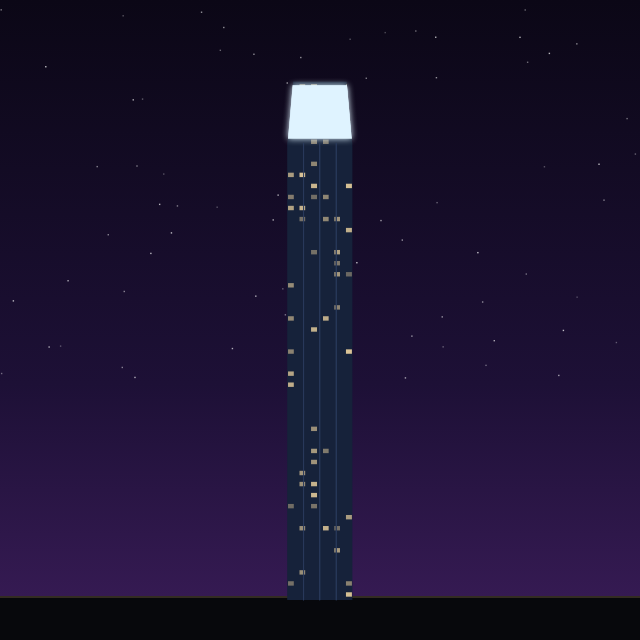
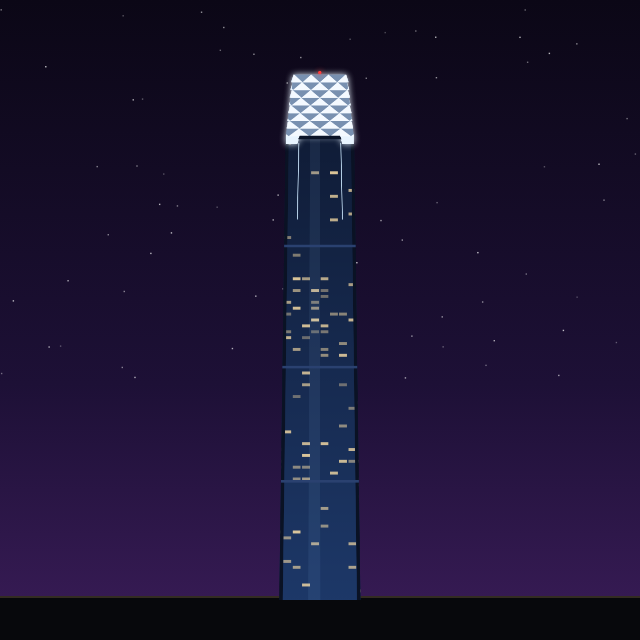
Redraw Exchange 106, add an MIT licence and a contributing section
- Exchange 106: faceted, tapering crown with staggered rows of lit
  pyramids and corners hanging over the shaft; blue-glass shaft with
  sky-lobby bands, corner fins and lit floor rows.
- README: Sultan Abdul Samad tile framed like the photo (lawn, royal
  palms, KL Tower behind); new "Want to add a landmark?" and "License"
  sections.
- LICENSE: MIT for the code and game art; real-world photos excluded.
- Remove the legacy greybox-A-lanes.md prototype contract.

Changed region(s): [[0.4375, 0.375, 0.5625, 0.9375], [0.4375, 0.0938, 0.5625, 0.3438]]

diff --git a/index.html b/index.html
@@ -310,11 +310,19 @@ const KL_LANDMARKS = {
  exchange106: {
   "w": 80,
   "h": 455,
-  "note": "Rectangular glass tower with a tall illuminated crown that tapers slightly. Filler for the far skyline.",
+  "note": "Exchange 106 (TRX), from the street photo: a tall, slightly tapering dark-blue glass shaft with chamfered corners, faint sky-lobby bands and thin corner fins on the upper shaft. Floodlit faceted crown: it tapers from about the shaft's width to ~77% at the flat top, with saw-toothed sides (each row juts out at its lower edge); 8 rows of wide diamonds, alternate rows offset by half a diamond, each with a bright upper half and a steel-blue lower half. The crown's bottom corners hang down over the shaft with a dark notch between them. Red aircraft light on top.",
   "layers": [
-   {"role":"body","mode":"fill","d":"M68,455 L68,63 L63,10 L17,10 L12,63 L12,455 Z"},
-   {"role":"sig","mode":"fill","d":"M67.5,59 L63.5,13 L16.5,13 L12.5,59 Z"},
-   {"role":"line","mode":"stroke","d":"M26,455 L26,63 M40,455 L40,63 M54,455 L54,63","lw":1}
+   {"role":"body","mode":"fill","d":"M5,455 L10.5,58 L69.5,58 L75,455 Z"},
+   {"role":"fixed","mode":"fill","d":"M30,455 L31.5,58 L40,58 L40.5,455 Z","color":"rgba(150,200,255,0.08)"},
+   {"role":"fixed","mode":"fill","d":"M5,455 L10.5,58 L13.2,58 L8,455 Z M75,455 L69.5,58 L66.8,58 L72,455 Z","color":"#0a1224"},
+   {"role":"fixed","mode":"fill","d":"M9.23,150 L70.77,150 L70.77,152.2 L9.23,152.2 Z M7.78,254 L72.22,254 L72.22,256.2 L7.78,256.2 Z M6.43,352 L73.57,352 L73.57,354.2 L6.43,354.2 Z","color":"#2a4170"},
+   {"role":"fixed","mode":"stroke","d":"M22,63 L20.6,128 M58,63 L59.4,128","color":"#b9d3ea","lw":0.8},
+   {"role":"sig","mode":"fill","d":"M17.3,4 L62.7,4 L64.66,9.72 L64.66,10.62 L63.36,10.62 L65.33,16.35 L65.33,17.25 L64.03,17.25 L65.99,22.98 L65.99,23.88 L64.69,23.88 L66.65,29.6 L66.65,30.5 L65.35,30.5 L67.31,36.23 L67.31,37.12 L66.01,37.12 L67.97,42.85 L67.97,43.75 L66.67,43.75 L68.64,49.48 L68.64,50.38 L67.34,50.38 L69.3,56.1 L69.3,57 L69.3,63.5 L59.3,63.5 L57.3,57 L22.7,57 L20.7,63.5 L10.7,63.5 L10.7,57 L10.7,56.1 L12.66,50.38 L11.36,50.38 L11.36,49.48 L13.33,43.75 L12.03,43.75 L12.03,42.85 L13.99,37.12 L12.69,37.12 L12.69,36.23 L14.65,30.5 L13.35,30.5 L13.35,29.6 L15.31,23.88 L14.01,23.88 L14.01,22.98 L15.98,17.25 L14.68,17.25 L14.68,16.35 L16.64,10.62 L15.34,10.62 L15.34,9.72 Z"},
+   {"role":"fixed","mode":"fill","d":"M17.3,4 L18.03,4 L17.21,4.75 Z M18.03,4 L32.68,4 L25.35,10.62 Z M32.68,4 L47.32,4 L40,10.62 Z M47.32,4 L61.97,4 L54.65,10.62 Z M61.97,4 L62.7,4 L62.79,4.75 Z M16.48,10.62 L24.93,10.62 L17.39,17.25 L15.82,15.87 Z M24.93,10.62 L40,10.62 L32.46,17.25 Z M40,10.62 L55.07,10.62 L47.54,17.25 Z M55.07,10.62 L63.52,10.62 L64.18,15.87 L62.61,17.25 Z M15.65,17.25 L16.75,17.25 L15.52,18.3 Z M16.75,17.25 L32.25,17.25 L24.5,23.88 Z M32.25,17.25 L47.75,17.25 L40,23.88 Z M47.75,17.25 L63.25,17.25 L55.5,23.88 Z M63.25,17.25 L64.35,17.25 L64.48,18.3 Z M14.83,23.88 L24.07,23.88 L16.11,30.5 L14.2,28.91 Z M24.07,23.88 L40,23.88 L32.04,30.5 Z M40,23.88 L55.93,23.88 L47.96,30.5 Z M55.93,23.88 L65.17,23.88 L65.8,28.91 L63.89,30.5 Z M14,30.5 L15.47,30.5 L13.84,31.82 Z M15.47,30.5 L31.82,30.5 L23.65,37.12 Z M31.82,30.5 L48.18,30.5 L40,37.12 Z M48.18,30.5 L64.53,30.5 L56.35,37.12 Z M64.53,30.5 L66,30.5 L66.16,31.82 Z M13.18,37.12 L23.22,37.12 L14.83,43.75 L12.57,41.97 Z M23.22,37.12 L40,37.12 L31.61,43.75 Z M40,37.12 L56.78,37.12 L48.39,43.75 Z M56.78,37.12 L66.83,37.12 L67.43,41.97 L65.17,43.75 Z M12.35,43.75 L14.19,43.75 L12.16,45.31 Z M14.19,43.75 L31.4,43.75 L22.79,50.38 Z M31.4,43.75 L48.6,43.75 L40,50.38 Z M48.6,43.75 L65.81,43.75 L57.21,50.38 Z M65.81,43.75 L67.65,43.75 L67.84,45.31 Z M11.52,50.38 L22.36,50.38 L13.54,57 L10.94,55.05 Z M22.36,50.38 L40,50.38 L31.18,57 Z M40,50.38 L57.64,50.38 L48.82,57 Z M57.64,50.38 L68.47,50.38 L69.06,55.05 L66.46,57 Z M10.7,57 L12.9,57 L12.9,57 L10.7,57 Z M12.9,57 L30.97,57 L30.97,57 L12.9,57 Z M30.97,57 L49.03,57 L49.03,57 L30.97,57 Z M49.03,57 L67.1,57 L67.1,57 L49.03,57 Z M67.1,57 L69.3,57 L69.3,57 L67.1,57 Z","color":"#7890b0"},
+   {"role":"fixed","mode":"fill","d":"M18.03,4 L18.03,4 L17.3,4 L17.3,4 Z M18.03,4 L18.03,4 L32.68,4 L32.68,4 Z M32.68,4 L32.68,4 L47.32,4 L47.32,4 Z M47.32,4 L47.32,4 L61.97,4 L61.97,4 Z M61.97,4 L61.97,4 L62.7,4 L62.7,4 Z M17.29,4.09 L17.39,4 L24.93,10.62 L16.48,10.62 Z M24.93,10.62 L32.46,4 L40,10.62 Z M40,10.62 L47.54,4 L55.07,10.62 Z M55.07,10.62 L62.61,4 L62.71,4.09 L63.53,10.62 Z M15.76,16.4 L16.75,17.25 L15.65,17.25 Z M16.75,17.25 L24.5,10.62 L32.25,17.25 Z M32.25,17.25 L40,10.62 L47.75,17.25 Z M47.75,17.25 L55.5,10.62 L63.25,17.25 Z M63.25,17.25 L64.24,16.4 L64.35,17.25 Z M15.6,17.68 L16.11,17.25 L24.07,23.88 L14.82,23.88 Z M24.07,23.88 L32.04,17.25 L40,23.88 Z M40,23.88 L47.96,17.25 L55.93,23.88 Z M55.93,23.88 L63.89,17.25 L64.4,17.68 L65.17,23.88 Z M14.13,29.42 L15.47,30.5 L14,30.5 Z M15.47,30.5 L23.65,23.88 L31.82,30.5 Z M31.82,30.5 L40,23.88 L48.18,30.5 Z M48.18,30.5 L56.35,23.88 L64.53,30.5 Z M64.53,30.5 L65.87,29.42 L66,30.5 Z M13.91,31.22 L14.83,30.5 L23.22,37.12 L13.18,37.12 Z M23.22,37.12 L31.61,30.5 L40,37.12 Z M40,37.12 L48.39,30.5 L56.78,37.12 Z M56.78,37.12 L65.17,30.5 L66.09,31.22 L66.83,37.12 Z M12.51,42.46 L14.19,43.75 L12.35,43.75 Z M14.19,43.75 L22.79,37.12 L31.4,43.75 Z M31.4,43.75 L40,37.12 L48.6,43.75 Z M48.6,43.75 L57.21,37.12 L65.81,43.75 Z M65.81,43.75 L67.49,42.46 L67.65,43.75 Z M12.23,44.74 L13.54,43.75 L22.36,50.38 L11.53,50.38 Z M22.36,50.38 L31.18,43.75 L40,50.38 Z M40,50.38 L48.82,43.75 L57.64,50.38 Z M57.64,50.38 L66.46,43.75 L67.77,44.74 L68.47,50.38 Z M10.88,55.52 L12.9,57 L10.7,57 Z M12.9,57 L21.94,50.38 L30.97,57 Z M30.97,57 L40,50.38 L49.03,57 Z M49.03,57 L58.06,50.38 L67.1,57 Z M67.1,57 L69.12,55.52 L69.3,57 Z","color":"#f4f9ff"},
+   {"role":"fixed","mode":"stroke","d":"","color":"#9fb3cc","lw":0.35},
+   {"role":"fixed","mode":"fill","d":"M22.7,56.4 L57.3,56.4 L58.7,59.5 L21.3,59.5 Z","color":"#0b1428"},
+   {"role":"red","mode":"fill","d":"M38.6,2.2 A1.4,1.4 0 1 0 41.4,2.2 A1.4,1.4 0 1 0 38.6,2.2 Z"}
   ]
  },
  sultanAbdulSamad: {
@@ -769,7 +777,7 @@ const KL_PALETTES = {
   klTower:          { body: '#8190c8', bodyGrad: ['#8190c8', '#f4f5ff'], bodyGradAt: [0.40, 0.53], line: 'rgba(40,44,100,0.22)', lit: '#ffe2a8', lit2: '#f2f0ff', metal: '#eeeefa', red: '#ff3b3b' },
   hill:             { body: '#0c1a16' },
   merdeka118:       { body: '#111a30', sig: '#6fb4ff', sig2: '#c77dff', lit: '#ffffff', lit2: '#dfe8ff', line: '#7f8aa3', red: '#ff3b3b' },
-  exchange106:      { body: '#16223a', sig: '#dff3ff', line: '#2a3a5c' },
+  exchange106:      { body: '#16223a', bodyGrad: ['#1d3868', '#0f1a33'], bodyGradAt: [0, 0.95], sig: '#e8f4ff', line: '#2a3a5c', red: '#ff3b3b' },
   /* bodyGrad = [bottom, top]: floodlit from the ground, so the facade is brightest at street level */
   sultanAbdulSamad: { body: '#6a4a32', bodyGrad: ['#c99763', '#553a27'], metal: '#b9552f', lit: '#ffd98a', lit2: '#fff4d6', line: '#3a2a1c', trim: '#ecd3a4' },
   royalPalm:        {},
@@ -794,7 +802,7 @@ const KL_WINDOWS = {
   /* bands: [fromTop, toTop, prob] as fractions of the viewBox height - the tower lights up in horizontal rows, not random dots */
   merdeka118:  { cols: 16, rows: 140, prob: 0.04, dash: true, color: '#ffe2a8', seed: 118,
                  bands: [[0.30, 0.36, 0.45], [0.455, 0.525, 0.8], [0.60, 0.625, 0.55], [0.70, 0.715, 0.5]] },
-  exchange106: { cols: 8,  rows: 48, prob: 0.22, color: '#ffe2a8', seed: 106 },
+  exchange106: { cols: 10, rows: 90, prob: 0.08, dash: true, color: '#ffe2a8', seed: 106, bands: [[0.40, 0.50, 0.22], [0.70, 0.78, 0.18]] },
   sentralTowers: { cols: 26, rows: 34, prob: 0.30, color: '#ffe2a8', seed: 5050 },
   ilhamTower:  { cols: 36, rows: 118, prob: 0.035, dash: true, color: '#ffe2a8', seed: 274, bands: [[0.30, 0.44, 0.22], [0.50, 0.60, 0.16], [0.70, 0.78, 0.10]] }
   /* greatEasternMall has no entry here: its lit office windows are explicit lit layers in KL_LANDMARKS, not a runtime dot pattern. */

diff --git a/docs/readme/export_assets.py b/docs/readme/export_assets.py
@@ -120,6 +120,18 @@ def export_tiles(browser, url):
             drawBaked(g, r, T / 2, beamY);
             const train = bakeLandmark('monorailTrain', 58, { bake: 2 }, R.mk);
             drawBaked(g, train, T / 2 + 40, beamY + 10);
+          } else if (id === 'sultanAbdulSamad') {
+            // framed like the Dataran Merdeka photo: KL Tower small behind, lawn and royal palms in front
+            const lawnTop = T - 150;
+            const tower = bakeLandmark('klTower', 250, { bake: 2 }, R.mk);
+            drawBaked(g, tower, T / 2 - 70, lawnTop - 20, 0.8);
+            drawBaked(g, r, T / 2, lawnTop + 4);
+            const lawn = g.createLinearGradient(0, lawnTop, 0, T);
+            lawn.addColorStop(0, '#1d4428'); lawn.addColorStop(1, '#0d2415');
+            g.fillStyle = lawn; g.fillRect(0, lawnTop, T, T - lawnTop);
+            g.fillStyle = 'rgba(255,210,140,0.16)'; g.fillRect(0, lawnTop, T, 2);
+            const palm = bakeLandmark('royalPalm', 150, { bake: 2 }, R.mk);
+            [38, 128, 214, 426, 512, 602].forEach(x => drawBaked(g, palm, x, lawnTop + 26));
           } else {
             drawBaked(g, r, T / 2, floorY + 4);
           }

diff --git a/CLAUDE.md b/CLAUDE.md
@@ -6,7 +6,7 @@ This file provides guidance to Claude Code (claude.ai/code) when working with co
 
 Racerweek is a self-contained mobile browser game: a three-lane endless dodger set across stylized Kuala Lumpur districts. `index.html` is the canonical source. It contains both the crawlable launch page and the expanded v0.4.5 Kuala Lumpur game. There is no package manager, framework, build step or runtime asset loading. Production minification is a release step only, so always edit the readable source, not the generated file.
 
-`greybox-A-lanes.md` is the original prototype contract. It remains the source for the core loop, input, collision, scoring, determinism, metrics and mobile-browser constraints.
+The original prototype contract (`greybox-A-lanes.md`) was removed from the tree; it is still in git history (before the licence commit) if the core-loop, collision, scoring or determinism rationale is ever needed.
 
 The reference images live in `assets-archive/` (for example `unnamed (2).jpg` for the target look, and `kl-signs-sheet.png` / `kl-signs-in-street.png` for signage) and in `twintower/`. They are references only: the game draws everything with inline Canvas 2D code and must not depend on image files. `arhive/index.html` is the version from before the route was expanded; do not edit it.
 

diff --git a/README.md b/README.md
@@ -182,6 +182,19 @@ Every district has its own street: its own shopfronts, lamps, trees, pavement an
 
 </div>
 
+## Want to add a landmark?
+
+Contributions are welcome, especially new KL landmarks and streets. The whole game is one file, `index.html`, with no build step. Open it in a browser and you're running it.
+
+- Every landmark is a shape in `KL_LANDMARKS` near the top of `index.html`, drawn from street photos of the real place. Copy an existing entry and start from there.
+- Load `index.html?selftest=1` and check the `[selftest]` lines in the console before you send a change.
+- Run `python3 docs/readme/export_assets.py` to refresh the pictures in this README.
+- Open an issue first if you're planning something big, then send a pull request.
+
+## License
+
+The code and game art are under the [MIT License](LICENSE). You're free to use, change and share them, as long as you keep the copyright notice crediting the author. The real-world photos in this README are not covered; they belong to their authors under the licences credited next to each one.
+
 ---
 
 <sub>Real-world photos belong to their authors. Photos from Wikimedia Commons are credited beneath each one with their licence. The game art is original.</sub>
